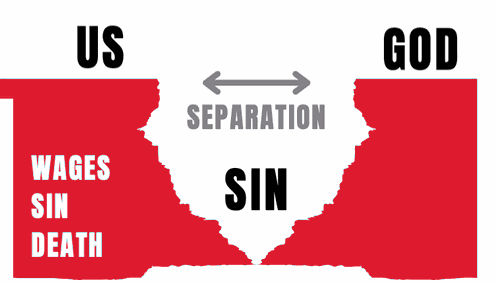
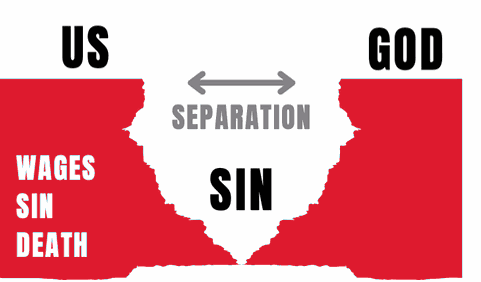
GL: drop now/next values, bridge d3 cliff, full baptism circles

diff --git a/2 - Group Leaders.html b/2 - Group Leaders.html
@@ -427,23 +427,25 @@
   .bspread{--bblue:#e01b2f;--bblue-dk:#b0121f}
 
   /* header banner—main block + circle-bite parens + end cap */
-  .bbanner{display:flex;align-items:stretch;height:84px;margin-bottom:17px;flex:none}
-  .bbanner .bmain{flex:1;min-width:0;background:radial-gradient(circle 45px at calc(100% + 34px) 50%, transparent 44.5px, var(--bblue) 45px);border-radius:16px 0 0 16px;display:flex;align-items:center;padding:0 46px 0 30px}
+  .bbanner{display:flex;align-items:stretch;height:84px;margin-bottom:17px;flex:none;background:var(--bblue);border-radius:16px}
+  .bbanner .bmain{flex:1;min-width:0;display:flex;align-items:center;padding:0 46px 0 30px}
   .bbanner h2{font-family:var(--font-display);color:#fff;font-size:52px;line-height:.9;letter-spacing:.012em;margin:0;text-transform:uppercase;white-space:nowrap}
-  .bbanner .bgap{flex:none;width:68px;display:flex;align-items:center;justify-content:center}
-  .bbanner .bgap img{width:56px;height:56px;object-fit:contain;display:block}
-  .bbanner .bcap{flex:none;width:58px;background:radial-gradient(circle 45px at -34px 50%, transparent 44.5px, var(--bblue) 45px);border-radius:0 16px 16px 0}
+  .bbanner .bgap{flex:none;width:68px;display:flex;align-items:center;justify-content:center;position:relative}
+  .bbanner .bgap::before{content:'';position:absolute;left:50%;top:50%;width:94px;height:94px;margin:-47px 0 0 -47px;border-radius:50%;background:#fff}
+  .bbanner .bgap img{width:56px;height:56px;object-fit:contain;display:block;position:relative}
+  .bbanner .bcap{flex:none;width:58px}
 
   .bspread .purpose{font-size:13.5px;color:var(--fg1);line-height:1.5;margin:0 2px 20px 83px}
   .bspread .purpose b{color:var(--bblue-dk);font-weight:700}
   .bspread .purpose i{font-style:italic}
 
   /* number device (block + circle bites) + section bar */
-  .bsec{display:flex;align-items:stretch;height:50px;flex:none}
-  .bk{flex:none;width:33px;background:var(--bblue);border-radius:12px 0 0 12px}
-  .bnc{flex:none;width:50px;display:flex;align-items:center;justify-content:center;background:radial-gradient(circle 25px at 50% 50%, #fff 24.4px, var(--bblue) 25px)}
-  .bnc span{font-family:var(--font-display);font-weight:700;color:var(--bblue);font-size:26px;line-height:1}
-  .bar{flex:1;min-width:0;background:var(--bblue);border-radius:0 9px 9px 0;display:flex;align-items:center;padding:0 20px 0 24px}
+  .bsec{display:flex;align-items:stretch;height:50px;flex:none;background:var(--bblue);border-radius:12px 9px 9px 12px}
+  .bk{flex:none;width:33px}
+  .bnc{flex:none;width:50px;display:flex;align-items:center;justify-content:center;position:relative}
+  .bnc::before{content:'';position:absolute;left:50%;top:50%;width:58px;height:58px;margin:-29px 0 0 -29px;border-radius:50%;background:#fff}
+  .bnc span{font-family:var(--font-display);font-weight:700;color:var(--bblue);font-size:26px;line-height:1;position:relative}
+  .bar{flex:1;min-width:0;display:flex;align-items:center;padding:0 20px 0 24px}
   .bar h3{font-family:var(--font-display);color:#fff;font-size:22px;letter-spacing:.02em;margin:0;text-transform:uppercase;display:flex;align-items:baseline;gap:7px;white-space:nowrap}
   .bar h3 .to{font-family:var(--font-body);font-style:italic;font-weight:600;font-size:14px;letter-spacing:.01em}
 
@@ -1607,15 +1609,16 @@ in the power of the Holy Spirit? Are they learning to feed themselves?
     <div class="foot"><span class="sec">Further Resources</span><span class="pn">40</span></div>
   </section>
 
-  <section class="page content" data-screen-label="The Mission—Now &amp; Next Values">
+  <section class="page content" data-screen-label="Notes">
     <div>
-      <div class="eyebrow">The Mission</div>
-      <h2 class="disp">Now &amp; Next Values</h2>
-      <div class="hr"></div>
-      <p class="lead">It&rsquo;s easy to focus on what&rsquo;s happening in a student&rsquo;s life <i>now</i> and forget to prepare them for what&rsquo;s <i>next</i>. These five values shape how we lead&mdash;and what we ask of you.</p>
+      <div class="eyebrow">Space to Think</div>
+      <h2 class="disp">Notes</h2>
     </div>
-    <div class="rows"><div class="row"><div class="k sm">01</div><div><div class="t">Be equipped</div><div class="b">You&rsquo;re not on your own. We&rsquo;ll equip and empower you to shepherd students through training, huddles, and a team leader in your corner.<span class="ref">Ephesians 4:12</span></div></div></div><div class="row"><div class="k sm">02</div><div><div class="t">Partner with parents</div><div class="b">Parents are the biggest influence in a student&rsquo;s faith. Learn their names, keep them in the loop, and work with them, not around them.</div></div></div><div class="row"><div class="k sm">03</div><div><div class="t">Reach the lost</div><div class="b">Help your students see their friends the way Jesus does&mdash;and give them the courage to invite and share.</div></div></div><div class="row"><div class="k sm">04</div><div><div class="t">Next steps</div><div class="b">Help every student take their next step with Jesus and in life: baptism, a group, a serving role, a mission trip.</div></div></div><div class="row"><div class="k sm">05</div><div><div class="t">Intergenerational</div><div class="b">Students grow when adults of every age know them. Connect them to the wider church to serve, worship, and learn alongside other generations.</div></div></div></div>
-    <div class="foot"><span class="sec">Further Resources</span><span class="pn">41</span></div>
+    <div class="rows" style="margin-top:14px">
+      <div class="noteline"></div><div class="noteline"></div><div class="noteline"></div><div class="noteline"></div><div class="noteline"></div><div class="noteline"></div><div class="noteline"></div>
+      <div class="noteline"></div><div class="noteline"></div><div class="noteline"></div><div class="noteline"></div><div class="noteline"></div><div class="noteline"></div><div class="noteline"></div>
+    </div>
+    <div class="foot"><span class="sec">SE Students</span><span class="pn">41</span></div>
   </section>
 
   <section class="page content" data-screen-label="Notes">
